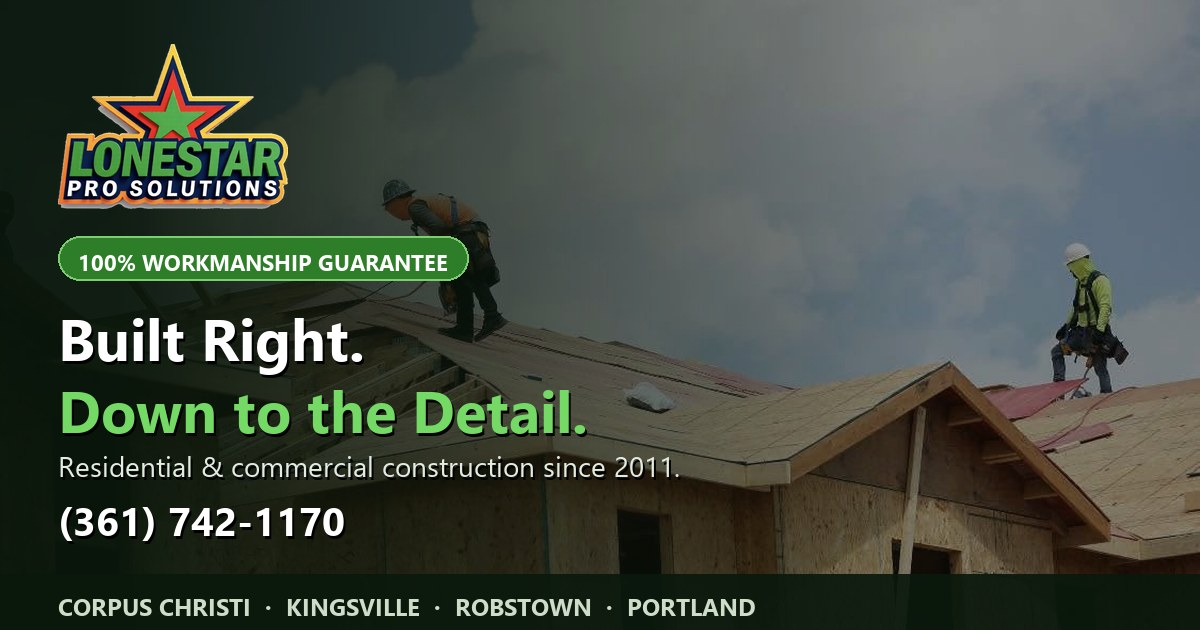
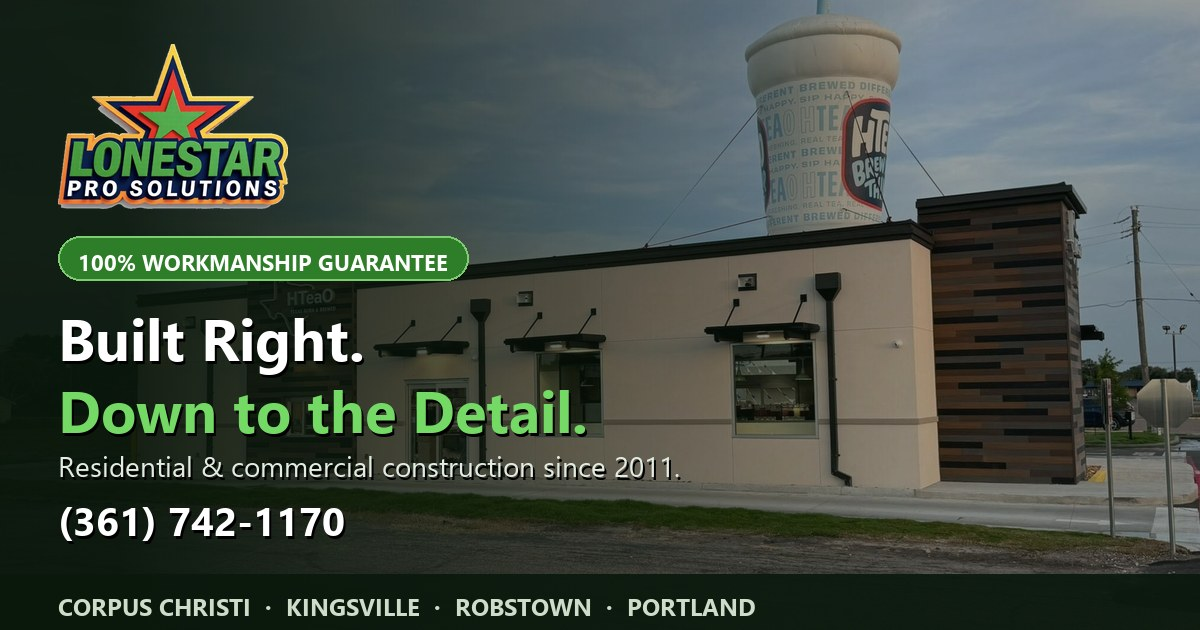
Share card rebuilt on his own HTeaO build; the roof-crew shot is stock

Changed region(s): [[0.2467, 0.0, 1.0, 0.9349], [0.37, 0.8444, 0.4625, 0.9048], [0.185, 0.6333, 0.2158, 0.6635]]

diff --git a/index.html b/index.html
@@ -20,7 +20,7 @@
 <meta property="og:image" content="https://jzonkel1.github.io/lonestar-pro-solutions/assets/og-image.jpg">
 <meta property="og:image:width" content="1200">
 <meta property="og:image:height" content="630">
-<meta property="og:image:alt" content="Lonestar Pro Solutions crew framing a roof in the Coastal Bend">
+<meta property="og:image:alt" content="Commercial build completed by Lonestar Pro Solutions in Kingsville">
 
 <meta name="twitter:card" content="summary_large_image">
 <meta name="twitter:title" content="Lonestar Pro Solutions — Residential &amp; Commercial Construction | Corpus Christi &amp; Kingsville, TX">
